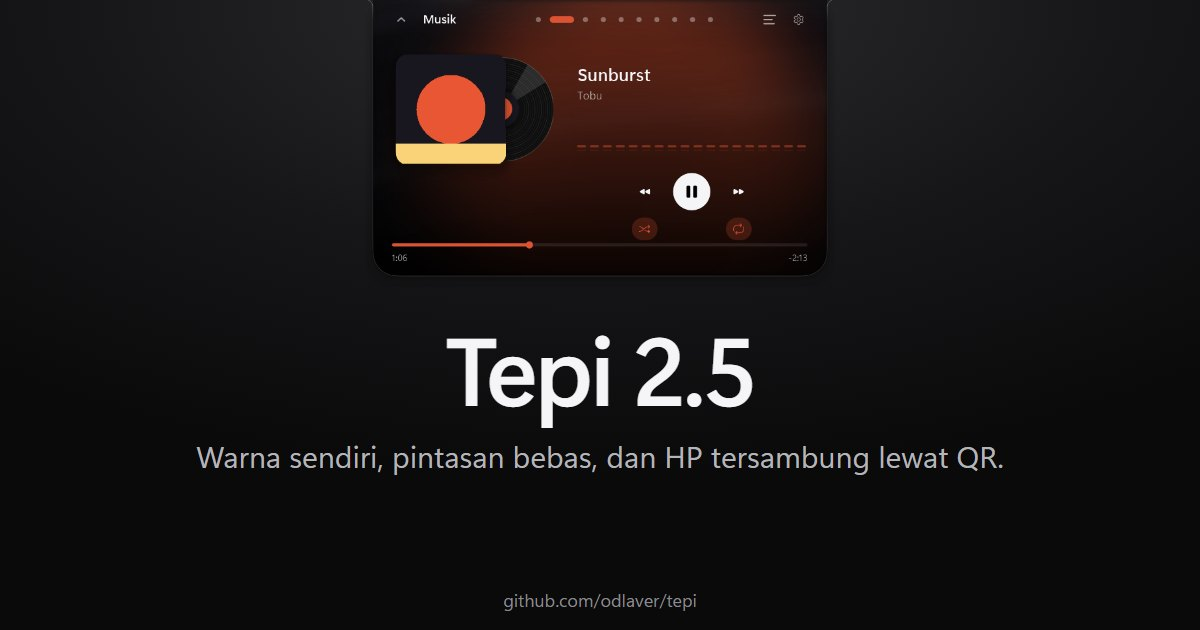
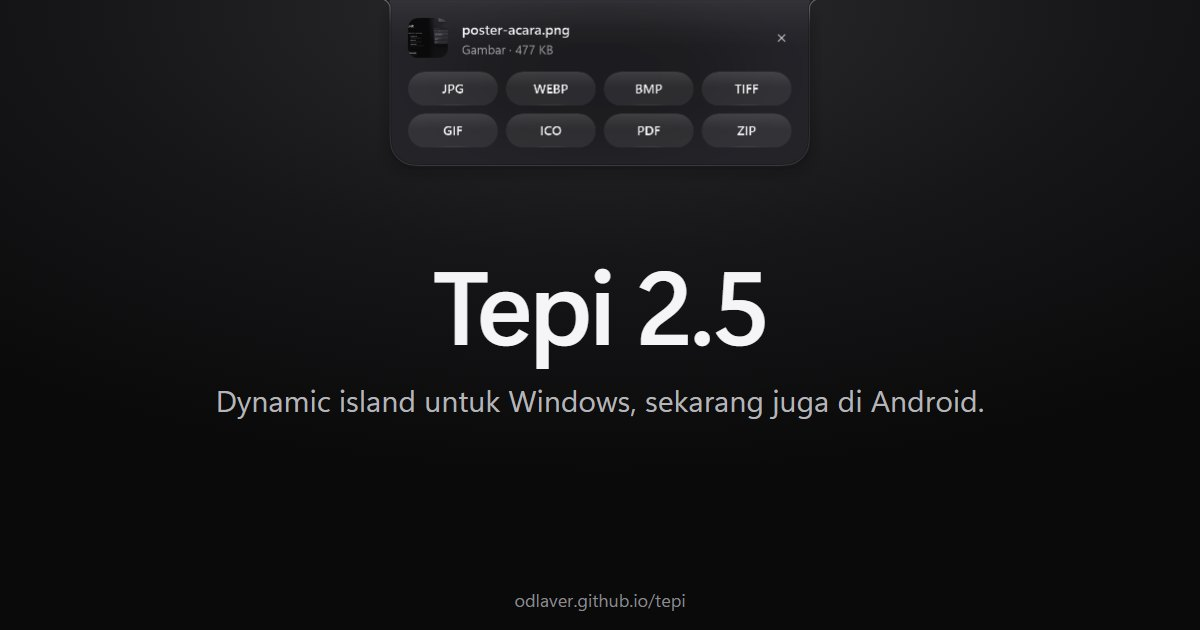
Situs 2.5: Tepi Android, tombol unduh APK, render 2.5 tanpa wallpaper, OG Ubah format

diff --git a/index.html b/index.html
@@ -3,8 +3,8 @@
 <head>
 <meta charset="utf-8">
 <meta name="viewport" content="width=device-width, initial-scale=1">
-<title>Tepi: dynamic island gratis untuk Windows 10 dan 11</title>
-<meta name="description" content="Tepi duduk di tepi atas layar Windows dan membesar saat ada yang terjadi: lagu dan lirik, agent coding, tugas, pesan, timer. Gratis, satu exe, kode terbuka.">
+<title>Tepi: dynamic island gratis untuk Windows dan Android</title>
+<meta name="description" content="Tepi duduk di tepi atas layar Windows, dan kini juga di sekitar kamera depan HP Android, lalu membesar saat ada yang terjadi: lagu dan lirik, agent coding, tugas, pesan, timer. Gratis dan kode terbuka.">
 <meta name="author" content="R. Revaldo Vabiansyah">
 <meta name="robots" content="index, follow, max-image-preview:large">
 <link rel="canonical" href="https://odlaver.github.io/tepi/">
@@ -17,16 +17,16 @@
 <meta property="og:site_name" content="Tepi">
 <meta property="og:locale" content="id_ID">
 <meta property="og:locale:alternate" content="en_US">
-<meta property="og:title" content="Tepi 2.5: dynamic island untuk Windows">
-<meta property="og:description" content="Baru di 2.5: klik pesan langsung ke chat-nya, warna sendiri, pintasan bebas, dan HP tersambung lewat QR. Gratis, satu exe, kode terbuka.">
+<meta property="og:title" content="Tepi 2.5: dynamic island untuk Windows dan Android">
+<meta property="og:description" content="Baru di 2.5: Tepi kini juga ada di Android, plus klik pesan langsung ke chat-nya, warna sendiri, dan HP tersambung lewat QR. Gratis dan kode terbuka.">
 <meta property="og:url" content="https://odlaver.github.io/tepi/">
 <meta property="og:image" content="https://odlaver.github.io/tepi/assets/img/og-25.jpg">
 <meta property="og:image:width" content="1200">
 <meta property="og:image:height" content="630">
-<meta property="og:image:alt" content="Tepi 2.5, panel Musik dengan tombol acak dan ulang serta warna dari sampul album">
+<meta property="og:image:alt" content="Tepi 2.5, kotak Ubah format di island dengan pilihan JPG, WEBP, PDF, dan format lain">
 <meta name="twitter:card" content="summary_large_image">
 <meta name="twitter:title" content="Tepi 2.5: dynamic island gratis untuk Windows 10 dan 11">
-<meta name="twitter:description" content="Baru di 2.5: klik pesan langsung ke chat-nya, warna sendiri, pintasan bebas, dan HP tersambung lewat QR. Gratis, satu exe, kode terbuka.">
+<meta name="twitter:description" content="Baru di 2.5: Tepi kini juga ada di Android, plus klik pesan langsung ke chat-nya, warna sendiri, dan HP tersambung lewat QR. Gratis dan kode terbuka.">
 <meta name="twitter:image" content="https://odlaver.github.io/tepi/assets/img/og-25.jpg">
 <script type="application/ld+json">
 {
@@ -38,7 +38,7 @@
   "url": "https://odlaver.github.io/tepi/",
   "downloadUrl": "https://github.com/odlaver/tepi/releases/latest/download/Tepi.exe",
   "softwareVersion": "2.5.0",
-  "fileSize": "904 KB",
+  "fileSize": "905 KB",
   "operatingSystem": "Windows 10, Windows 11",
   "applicationCategory": "UtilitiesApplication",
   "inLanguage": ["id", "en"],
@@ -78,15 +78,21 @@
   <section class="hero" id="hero">
     <div class="wrap hero-copy">
       <p class="kicker">Tepi 2.5</p>
-      <h1 data-i18n="hero.title">Dynamic island untuk Windows.</h1>
+      <h1 data-i18n="hero.title">Dynamic island untuk Windows dan Android.</h1>
       <p class="lead" data-i18n="hero.lead">Duduk tenang di tepi atas layar, lalu membesar saat ada yang terjadi: lagu, agent coding, tugas, pesan, timer.</p>
       <div class="cta">
-        <a class="btn btn-lg js-dl" data-goatcounter-click="unduh-hero" href="https://github.com/odlaver/tepi/releases/latest/download/Tepi.exe">
-          <svg class="ico" viewBox="0 0 20 20" aria-hidden="true"><path d="M10 3v9m0 0-3.5-3.5M10 12l3.5-3.5M4 15.5h12" fill="none" stroke="currentColor" stroke-width="1.8" stroke-linecap="round" stroke-linejoin="round"/></svg>
-          <span data-i18n="cta.download">Unduh untuk Windows</span>
-        </a>
-        <p class="meta"><span data-i18n="meta.free">Gratis</span> · v<span class="js-version"><span class="ver-main">2.5</span><span class="ver-tail">.0</span></span> · <span class="js-size">904 KB</span> · <span data-i18n="meta.os">Windows 10 dan 11</span></p>
-        <p class="platform" hidden data-i18n="note.platform">Tepi khusus Windows 10 dan 11.</p>
+        <div class="cta-row">
+          <a class="btn btn-lg js-dl" data-goatcounter-click="unduh-hero" href="https://github.com/odlaver/tepi/releases/latest/download/Tepi.exe">
+            <svg class="ico" viewBox="0 0 20 20" aria-hidden="true"><path d="M10 3v9m0 0-3.5-3.5M10 12l3.5-3.5M4 15.5h12" fill="none" stroke="currentColor" stroke-width="1.8" stroke-linecap="round" stroke-linejoin="round"/></svg>
+            <span data-i18n="cta.download">Unduh untuk Windows</span>
+          </a>
+          <a class="btn btn-lg btn-alt js-apk" data-goatcounter-click="apk-hero" href="https://github.com/odlaver/tepi-android/releases/download/v2.5.0/Tepi-android-2.5.0.apk">
+            <svg class="ico" viewBox="0 0 20 20" aria-hidden="true"><rect x="5.5" y="2.5" width="9" height="15" rx="2.2" fill="none" stroke="currentColor" stroke-width="1.7"/><path d="M8.6 14.6h2.8" stroke="currentColor" stroke-width="1.7" stroke-linecap="round"/></svg>
+            <span data-i18n="cta.android">Unduh untuk Android</span>
+          </a>
+        </div>
+        <p class="meta"><span data-i18n="meta.free">Gratis</span> · v<span class="js-version"><span class="ver-main">2.5</span><span class="ver-tail">.0</span></span> · <span class="js-size">905 KB</span> · <span data-i18n="meta.os">Windows 10 dan 11</span></p>
+        <p class="platform" hidden data-i18n="note.platform">Tepi tersedia untuk Windows 10 dan 11, serta Android 10 ke atas.</p>
         <a class="link" href="https://github.com/odlaver/tepi" data-i18n="hero.source">Kode sumber di GitHub</a>
       </div>
     </div>
@@ -94,8 +100,32 @@
       <div class="stage-fit"><div class="stage stage-hero">
         <img src="assets/img/p-ringkasan.webp" width="588" height="370" decoding="async" fetchpriority="high" alt="Panel Ringkasan Tepi: lagu yang diputar, agen yang bekerja, kelas berikutnya, dan pesan" data-i18n-alt="alt.hero">
       </div></div>
-      <figcaption class="cap" data-i18n="hero.update">Baru di Tepi 2.5: klik pesan langsung membuka chat pengirimnya, warna island sendiri, pintasan yang bisa diganti, dan HP tersambung cukup dengan memindai QR.</figcaption>
+      <figcaption class="cap" data-i18n="hero.update">Baru di 2.5: Tepi kini juga ada di Android. Di laptop, klik pesan langsung membuka chat pengirimnya, warna island bisa diatur sendiri, dan HP tersambung cukup dengan memindai QR.</figcaption>
     </figure>
+  </section>
+
+  <section class="sec" id="android">
+    <div class="wrap split droid">
+      <div>
+        <p class="eyebrow">Tepi Android</p>
+        <h2 data-i18n="droid.title">Sekarang island‑nya ada di HP juga.</h2>
+        <p class="body" data-i18n="droid.body">Rilis perdana Tepi untuk Android: dynamic island di sekitar kamera depan, untuk HP yang tidak punya island bawaan. Lagu dan lirik, pesan dengan balas cepat, panggilan, unduhan, navigasi Maps, timer, dan waktu sholat.</p>
+        <ul class="droid-list">
+          <li><b data-i18n="droid.pair">Nyambung ke laptop lewat QR</b><span data-i18n="droid.pair.d">Pindai kode dari Pengaturan › HP di laptop. Kode OTP siap disalin di laptop, notifikasi HP masuk ke Pesan, berkas bolak-balik, dan izin agen dijawab dengan sidik jari.</span></li>
+          <li><b data-i18n="droid.bank">Mode bank</b><span data-i18n="droid.bank.d">Aksesibilitas Tepi mati sendiri saat aplikasi bank dibuka, jadi bank tetap mau terbuka.</span></li>
+          <li><b data-i18n="droid.local">Tanpa server</b><span data-i18n="droid.local.d">Laptop dan HP bicara langsung di Wi-Fi yang sama, terenkripsi AES-256.</span></li>
+        </ul>
+        <div class="droid-cta">
+          <a class="btn btn-md js-apk" data-goatcounter-click="apk-android" href="https://github.com/odlaver/tepi-android/releases/download/v2.5.0/Tepi-android-2.5.0.apk"><svg class="ico" viewBox="0 0 20 20" aria-hidden="true"><rect x="5.5" y="2.5" width="9" height="15" rx="2.2" fill="none" stroke="currentColor" stroke-width="1.7"/><path d="M8.6 14.6h2.8" stroke="currentColor" stroke-width="1.7" stroke-linecap="round"/></svg><span data-i18n="droid.cta">Unduh APK</span></a>
+          <p class="meta"><span data-i18n="meta.free">Gratis</span> · v<span class="js-apk-ver">2.5.0</span> · <span data-i18n="droid.req">Android 10 ke atas, arm64</span></p>
+        </div>
+      </div>
+      <div class="droid-shots" role="img" aria-label="Tepi Android: tab Ibadah, Musik, dan Catatan di island sekitar kamera depan" data-i18n-label="droid.alt">
+        <img src="assets/img/a-ibadah.webp" width="720" height="419" loading="lazy" decoding="async" alt="">
+        <img src="assets/img/a-musik.webp" width="720" height="381" loading="lazy" decoding="async" alt="">
+        <img src="assets/img/a-catatan.webp" width="720" height="381" loading="lazy" decoding="async" alt="">
+      </div>
+    </div>
   </section>
 
   <section class="sec" id="live">
@@ -264,7 +294,7 @@
         </li>
       </ul>
       <div class="perf-foot">
-        <p class="exe"><b class="js-size">904 KB</b> <span data-i18n="perf.exe">satu file exe, tanpa instalasi.</span></p>
+        <p class="exe"><b class="js-size">905 KB</b> <span data-i18n="perf.exe">satu file exe, tanpa instalasi.</span></p>
         <p class="note" data-i18n="perf.frame">Membuka dan menutup panel paling lama sekitar 10 ms per frame, di bawah 16,7 ms untuk 60 fps.</p>
         <p class="note" data-i18n="perf.note">Diukur di laptop Intel Core i3-1115G4, 60 detik per kondisi. Persen CPU dihitung terhadap satu core.</p>
       </div>
@@ -345,6 +375,10 @@
         <li data-ev="pray"><b data-i18n="more.remind">Pengingat</b><span data-i18n="more.remind.d">Jadwal sholat dihitung di laptop tanpa internet, plus minum, istirahat mata 20-20-20, dan peregangan.</span></li>
         <li><b data-i18n="more.dl">Unduhan</b><span data-i18n="more.dl.d">Progres unduhan Chrome, Edge, Firefox, Brave, dan Opera beserta kecepatannya.</span></li>
         <li><b data-i18n="more.kb">Keyboard penuh</b><span data-i18n="more.kb.d">Ctrl+Alt+I untuk navigasi. Toast, tab, tombol, dan permintaan izin dibacakan Narrator atau NVDA.</span></li>
+        <li><b data-i18n="more.color">Warna sendiri</b><span data-i18n="more.color.d">Pilih latar, teks, dan aksen, ambil warna dari layar, atau ikuti sampul album yang diputar.</span></li>
+        <li><b data-i18n="more.keys">Pintasan bebas</b><span data-i18n="more.keys.d">Setiap pintasan bisa diganti atau dikosongkan. Yang bentrok dengan aplikasi lain langsung ditolak.</span></li>
+        <li><b data-i18n="more.ocr">Teks dari screenshot</b><span data-i18n="more.ocr.d">Tombol Teks di preview screenshot menyalin tulisannya lewat OCR bawaan Windows.</span></li>
+        <li><b data-i18n="more.except">Aturan per aplikasi</b><span data-i18n="more.except.d">Pilih aplikasi yang membuat island menyingkir atau menahan notifikasi saat jendelanya di depan.</span></li>
         <li><b data-i18n="more.lang">Dua bahasa</b><span data-i18n="more.lang.d">Indonesia dan Inggris.</span></li>
         <li><b data-i18n="more.note">Catatan kilat</b><span data-i18n="more.note.d">Ctrl+Alt+N, satu baris, Enter. Masuk ke Rak, Todoist, atau Notion.</span></li>
         <li><b data-i18n="more.mirror">Cermin kamera</b><span data-i18n="more.mirror.d">Ctrl+Alt+C untuk melihat dirimu sebelum kelas atau rapat. Kamera dilepas sendiri setelah 2 menit.</span></li>
@@ -375,16 +409,23 @@
   <section class="sec final" id="unduh" data-ev="final">
     <div class="wrap">
       <h2 data-i18n="dl.title">Satu exe. Gratis.</h2>
-      <a class="btn btn-lg js-dl" data-goatcounter-click="unduh-bawah" href="https://github.com/odlaver/tepi/releases/latest/download/Tepi.exe">
-        <svg class="ico" viewBox="0 0 20 20" aria-hidden="true"><path d="M10 3v9m0 0-3.5-3.5M10 12l3.5-3.5M4 15.5h12" fill="none" stroke="currentColor" stroke-width="1.8" stroke-linecap="round" stroke-linejoin="round"/></svg>
-        <span data-i18n="cta.download">Unduh untuk Windows</span>
-      </a>
-      <p class="meta"><span data-i18n="meta.free">Gratis</span> · v<span class="js-version"><span class="ver-main">2.5</span><span class="ver-tail">.0</span></span> · <span class="js-size">904 KB</span></p>
+      <div class="cta-row">
+        <a class="btn btn-lg js-dl" data-goatcounter-click="unduh-bawah" href="https://github.com/odlaver/tepi/releases/latest/download/Tepi.exe">
+          <svg class="ico" viewBox="0 0 20 20" aria-hidden="true"><path d="M10 3v9m0 0-3.5-3.5M10 12l3.5-3.5M4 15.5h12" fill="none" stroke="currentColor" stroke-width="1.8" stroke-linecap="round" stroke-linejoin="round"/></svg>
+          <span data-i18n="cta.download">Unduh untuk Windows</span>
+        </a>
+        <a class="btn btn-lg btn-alt js-apk" data-goatcounter-click="apk-bawah" href="https://github.com/odlaver/tepi-android/releases/download/v2.5.0/Tepi-android-2.5.0.apk">
+          <svg class="ico" viewBox="0 0 20 20" aria-hidden="true"><rect x="5.5" y="2.5" width="9" height="15" rx="2.2" fill="none" stroke="currentColor" stroke-width="1.7"/><path d="M8.6 14.6h2.8" stroke="currentColor" stroke-width="1.7" stroke-linecap="round"/></svg>
+          <span data-i18n="cta.android">Unduh untuk Android</span>
+        </a>
+      </div>
+      <p class="meta"><span data-i18n="meta.free">Gratis</span> · v<span class="js-version"><span class="ver-main">2.5</span><span class="ver-tail">.0</span></span> · <span class="js-size">905 KB</span></p>
       <p class="again" data-i18n="dl.again">Sudah memasang Tepi? Klik kanan ikon Tepi, lalu Perbarui ke Tepi 2.5.0. Berikutnya cukup Pengaturan › Tentang › Cek pembaruan.</p>
-      <p class="platform" hidden data-i18n="note.platform">Tepi khusus Windows 10 dan 11.</p>
+      <p class="platform" hidden data-i18n="note.platform">Tepi tersedia untuk Windows 10 dan 11, serta Android 10 ke atas.</p>
       <dl class="facts">
         <div><dt data-i18n="dl.req">Syarat</dt><dd data-i18n="dl.req.d">Windows 10 versi 2004 atau lebih baru, atau Windows 11, 64-bit. .NET Framework 4.8 sudah bawaan Windows.</dd></div>
         <div><dt>SmartScreen</dt><dd data-i18n="dl.ss.d">Exe belum ditandatangani, jadi Windows SmartScreen bisa memunculkan peringatan. Pilih More info, lalu Run anyway.</dd></div>
+        <div><dt data-i18n="dl.apk">Tepi Android</dt><dd data-i18n="dl.apk.d">APK untuk Android 10 ke atas dengan prosesor arm64. Di Android 13 ke atas, buka Info aplikasi › ⋮ › Izinkan setelan terbatas sebelum memberi akses notifikasi.</dd></div>
         <div><dt>SHA-256 Tepi.exe</dt><dd class="sha"><code class="js-sha">44FCAC88C4A6E0DAD49D1361ABC0CF57FA8D4DE4B0B6A456030A767CCE0480F9</code><button type="button" class="btn-ghost" id="copy" data-i18n="dl.copy">Salin</button></dd></div>
       </dl>
       <a class="link" href="https://github.com/odlaver/tepi/releases" data-i18n="dl.releases">Semua rilis</a>

diff --git a/assets/js/main.js b/assets/js/main.js
@@ -10,14 +10,36 @@
   var EN = {
     "skip": "Skip to download",
     "nav.download": "Download",
-    "hero.title": "A dynamic island for Windows.",
+    "hero.title": "A dynamic island for Windows and Android.",
     "hero.lead": "It sits quietly at the top edge of your screen and grows when something happens: music, coding agents, deadlines, messages, timers.",
     "cta.download": "Download for Windows",
     "meta.free": "Free",
     "meta.os": "Windows 10 and 11",
-    "note.platform": "Tepi is for Windows 10 and 11.",
+    "note.platform": "Tepi is available for Windows 10 and 11, and Android 10 or later.",
+    "cta.android": "Download for Android",
     "hero.source": "Source code on GitHub",
-    "hero.update": "New in Tepi 2.5: clicking a message opens the sender's chat, your own island colors, remappable shortcuts, and pairing your phone by scanning a QR code.",
+    "hero.update": "New in 2.5: Tepi is now on Android too. On the laptop, clicking a message opens the sender's chat, the island takes your own colors, and your phone pairs by scanning a QR code.",
+    "droid.title": "Now the island is on your phone too.",
+    "droid.body": "The first release of Tepi for Android: a dynamic island around the front camera, for phones without one. Songs and lyrics, messages with quick reply, calls, downloads, Maps navigation, timers, and prayer times.",
+    "droid.pair": "Pairs with your laptop by QR",
+    "droid.pair.d": "Scan the code from Settings › Phone on the laptop. OTP codes are ready to copy on the laptop, phone notifications land in Messages, files go both ways, and agent permissions are answered with your fingerprint.",
+    "droid.bank": "Bank mode",
+    "droid.bank.d": "Tepi's accessibility service turns itself off while a banking app is open, so the bank still opens.",
+    "droid.local": "No server",
+    "droid.local.d": "Laptop and phone talk directly over the same Wi-Fi, encrypted with AES-256.",
+    "droid.cta": "Download APK",
+    "droid.req": "Android 10 or later, arm64",
+    "droid.alt": "Tepi Android: Prayer, Music, and Notes tabs on the island around the front camera",
+    "dl.apk": "Tepi Android",
+    "dl.apk.d": "APK for Android 10 or later on arm64. On Android 13 or later, open App info › ⋮ › Allow restricted settings before granting notification access.",
+    "more.color": "Your own colors",
+    "more.color.d": "Pick the background, text, and accent, grab a color from the screen, or follow the album cover playing.",
+    "more.keys": "Free shortcuts",
+    "more.keys.d": "Every shortcut can be changed or cleared. Ones that clash with another app are rejected on the spot.",
+    "more.ocr": "Text from screenshots",
+    "more.ocr.d": "The Text button on a screenshot preview copies its words with Windows' built-in OCR.",
+    "more.except": "Per-app rules",
+    "more.except.d": "Choose apps that make the island step aside or hold notifications while their window is in front.",
     "alt.hero": "Tepi Overview panel: the song playing, a working agent, the next class, and messages",
     "live.title": "Alive when it matters.",
     "live.body": "Songs with lyrics that sweep word by word, incoming messages, finished agents, prayer times, volume, battery, Caps Lock, input language, screenshots, mic mute, USB drives, terminal commands, Wi-Fi sign-in, meeting mode, earbuds battery, rain alerts, OTP codes from your phone, and now a box that converts files. The island grows for a moment, then settles back.",
@@ -204,8 +226,8 @@
     "foot.src": "Source code",
     "foot.rel": "Releases",
     "foot.mit": "MIT License",
-    "doc.title": "Tepi: a free dynamic island for Windows 10 and 11",
-    "doc.desc": "Tepi sits at the top edge of your Windows screen and grows when something happens: music and lyrics, coding agents, tasks, messages, timers. Free, one exe, open source."
+    "doc.title": "Tepi: a free dynamic island for Windows and Android",
+    "doc.desc": "Tepi sits at the top edge of your Windows screen, and now around the front camera of your Android phone, and grows when something happens: music and lyrics, coding agents, tasks, messages, timers. Free and open source."
   };
   // Indonesian strings not present in the markup
   var ID = {
@@ -836,9 +858,17 @@
   // Non-Windows visitors get a note
   var plat = (navigator.userAgentData && navigator.userAgentData.platform) || navigator.platform || navigator.userAgent;
   var phone = /Android|iPhone|iPad|iPod/i.test(navigator.userAgent);
-  if (phone || !/win/i.test(plat)) {
+  var android = /Android/i.test(navigator.userAgent);
+  if (!android && (phone || !/win/i.test(plat))) {
     $$(".platform").forEach(function (p) { p.hidden = false; });
   }
+  // Android visitors: APK becomes the main button
+  if (android) $$(".cta-row").forEach(function (row) {
+    var apk = $(".js-apk", row), exe = $(".js-dl", row);
+    if (!apk || !exe) return;
+    apk.classList.remove("btn-alt"); exe.classList.add("btn-alt");
+    row.insertBefore(apk, exe);
+  });
 
   // Portrait poster for the video
   var film = $(".film");
@@ -864,6 +894,17 @@
         var sha = exe && exe.digest && /^sha256:([0-9a-f]{64})$/i.exec(exe.digest);
         var hex = sha ? sha[1] : (/SHA-256[\s\S]{0,40}?([0-9A-Fa-f]{64})/.exec(rel.body || "") || [])[1];
         if (hex) $(".js-sha").textContent = hex.toUpperCase();
+      })
+      .catch(function () { });
+    // Newest APK, static link as fallback
+    fetch("https://api.github.com/repos/odlaver/tepi-android/releases/latest", { headers: { Accept: "application/vnd.github+json" } })
+      .then(function (r) { if (!r.ok) throw new Error(r.status); return r.json(); })
+      .then(function (rel) {
+        var apk = (rel.assets || []).filter(function (a) { return /\.apk$/i.test(a.name); })[0];
+        if (!apk) return;
+        $$(".js-apk").forEach(function (a) { a.href = apk.browser_download_url; });
+        var ver = String(rel.tag_name || "").replace(/^v/, "");
+        if (ver) $$(".js-apk-ver").forEach(function (el) { el.textContent = ver; });
       })
       .catch(function () { });
   }

diff --git a/assets/css/style.css b/assets/css/style.css
@@ -165,6 +165,10 @@ h3 { font-size: clamp(22px, 2.3vw, 27px); line-height: 1.15; letter-spacing: -0.
 .lead { margin: clamp(10px, 2.4svh, 22px) auto 0; max-width: 34ch; font-size: clamp(17px, min(2.1vw, 2.8svh), 25px); line-height: 1.4; color: var(--sub); text-wrap: pretty; }
 .cta { margin-top: clamp(14px, 3svh, 36px); display: flex; flex-direction: column; align-items: center; gap: clamp(8px, 1.5svh, 14px); }
 .meta { font-size: 15px; color: var(--faint); font-variant-numeric: tabular-nums; }
+/* Windows first, Android beside it */
+.cta-row { display: flex; flex-wrap: wrap; justify-content: center; gap: 12px; }
+.btn-alt { background: transparent; color: var(--text); box-shadow: inset 0 0 0 1px rgba(255, 255, 255, 0.22); }
+.btn-alt .ico { opacity: 0.9; }
 .ver-tail { font-size: 0.62em; letter-spacing: 0.01em; }
 .platform { max-width: 420px; font-size: 15px; color: var(--sub); }
 .hero-fig { flex: 1 1 0; min-height: 0; max-height: calc(370px + clamp(12px, 3svh, 64px) + 96px); display: flex; flex-direction: column; margin-top: clamp(16px, 3.5svh, 72px); }
@@ -229,6 +233,16 @@ h3 { font-size: clamp(22px, 2.3vw, 27px); line-height: 1.15; letter-spacing: -0.
 }
 .tabs button[aria-selected="true"] { background: var(--text); border-color: var(--text); color: var(--on-cta); }
 .scene:not(.pinned) .scene-copy { padding-bottom: 12px; }
+
+/* Tepi Android: real captures, stacked like a deck */
+.droid-list { margin-top: 28px; display: grid; gap: 18px; max-width: 56ch; }
+.droid-list b { display: block; font-size: 17px; font-weight: 600; color: var(--text); }
+.droid-list span { display: block; margin-top: 4px; font-size: 16px; color: var(--sub); text-wrap: pretty; }
+.droid-cta { margin-top: 30px; display: flex; flex-wrap: wrap; align-items: center; gap: 12px 18px; }
+.droid-cta .btn .ico { width: 18px; height: 18px; }
+.droid-shots { display: grid; gap: 14px; }
+.droid-shots img { width: 100%; height: auto; border-radius: 22px; border: 1px solid var(--line); background: #000; }
+.droid-shots img:nth-child(n+2) { display: none; }
 
 /* Mini, up close */
 .split { display: grid; gap: 40px; align-items: center; }
@@ -398,6 +412,7 @@ h3 { font-size: clamp(22px, 2.3vw, 27px); line-height: 1.15; letter-spacing: -0.
 
 @media (hover: hover) {
   .btn:hover { background: #ffffff; }
+  .btn-alt:hover { background: rgba(255, 255, 255, 0.06); box-shadow: inset 0 0 0 1px rgba(255, 255, 255, 0.36); }
   .lang:hover { color: var(--text); border-color: rgba(255, 255, 255, 0.24); }
   .link:hover { color: var(--text); }
   .acts button:hover, .tabs button:hover, .moods button:hover, .seg button:hover { color: var(--text); }
@@ -414,6 +429,9 @@ h3 { font-size: clamp(22px, 2.3vw, 27px); line-height: 1.15; letter-spacing: -0.
   .priv li { grid-template-columns: 280px 1fr; }
 }
 @media (min-width: 860px) {
+  .droid-shots { grid-template-columns: 1fr 1fr; }
+  .droid-shots img:first-child { grid-column: 1 / -1; }
+  .droid-shots img:nth-child(n+2) { display: block; }
   .live { grid-template-columns: 1.55fr 1fr; align-items: center; gap: 48px; }
   .split { grid-template-columns: 1fr 1fr; gap: 56px; }
   .agent { grid-template-columns: 1fr 1fr; }
